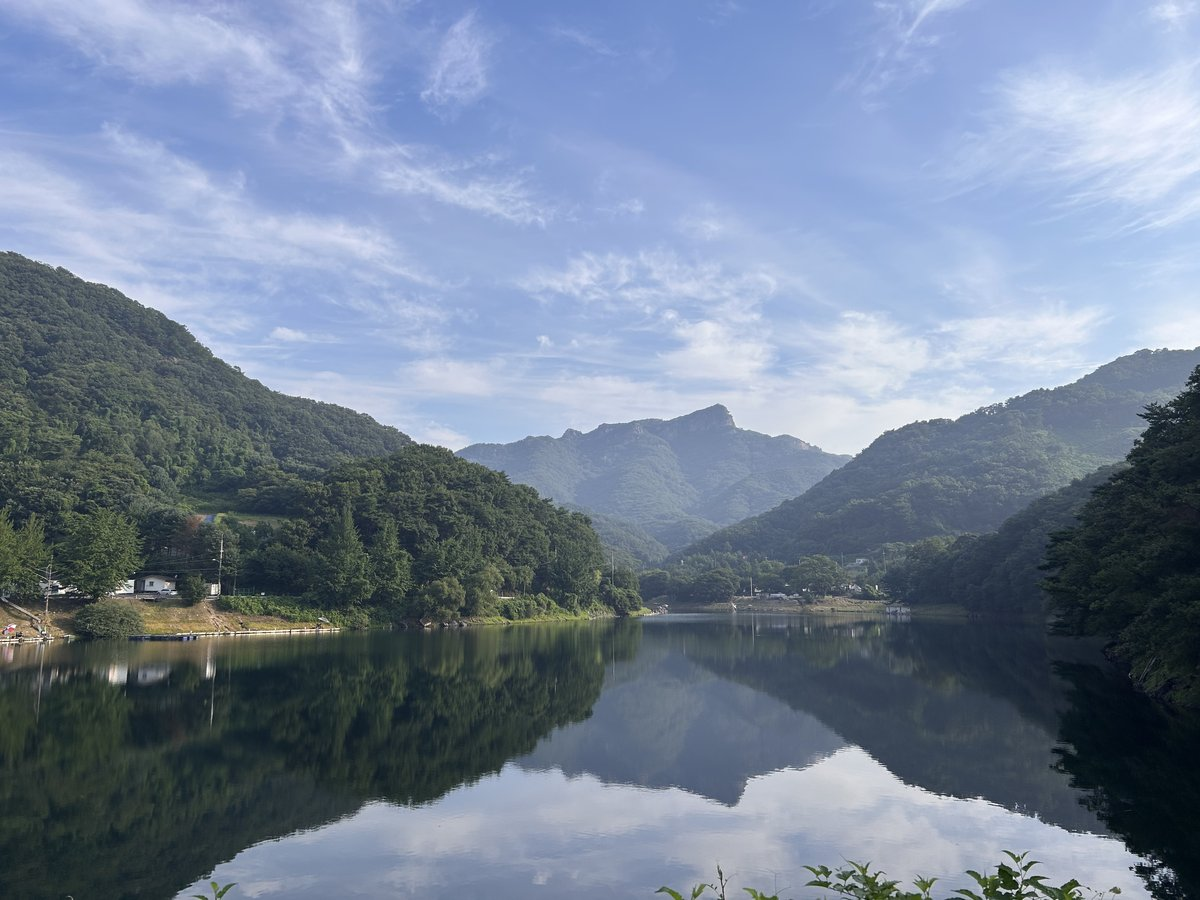
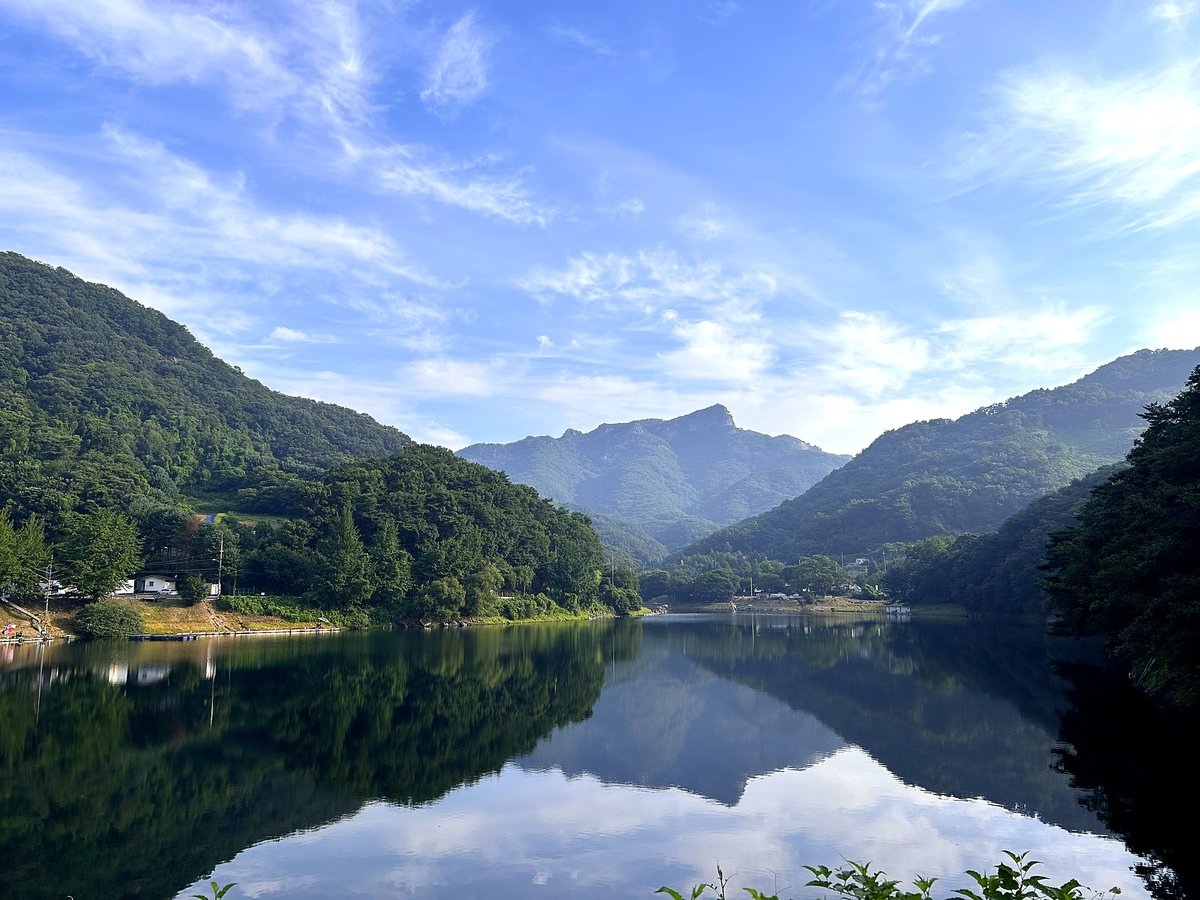
감악산(파주) 등반기록 추가 (2025-08-02 신암저수지 코스)
- 등산 코스에 신암저수지 코스, 주차장에 숲속야영장 주차장 추가
- 사진 8장 + GPS 경로, 얼굴은 스티커로 가림
- 대표 사진을 보정본으로 교체

Claude-Session: https://claude.ai/code/session_01U7tKXoXxPgekUzA57hnrcL

diff --git a/docs/mountain/감악산-파주.html b/docs/mountain/감악산-파주.html
@@ -13,7 +13,7 @@
 <meta property="og:site_name" content="블랙야크 100대 명산 기록">
 <meta property="og:locale" content="ko_KR">
 <meta property="og:url" content="https://jthird-ops.github.io/mountain/%EA%B0%90%EC%95%85%EC%82%B0-%ED%8C%8C%EC%A3%BC.html">
-<meta property="og:image" content="https://jthird-ops.github.io/assets/photos/%EA%B0%90%EC%95%85%EC%82%B0-%ED%8C%8C%EC%A3%BC.27439497.jpg">
+<meta property="og:image" content="https://jthird-ops.github.io/assets/photos/%EA%B0%90%EC%95%85%EC%82%B0-%ED%8C%8C%EC%A3%BC.0cee8f19.jpg">
 <meta name="twitter:card" content="summary_large_image">
 <link rel="canonical" href="https://jthird-ops.github.io/mountain/%EA%B0%90%EC%95%85%EC%82%B0-%ED%8C%8C%EC%A3%BC.html">
 <link rel="icon" href="../assets/favicon.ea8613df.png" type="image/png">
@@ -56,15 +56,15 @@
     <h1>감악산(파주)</h1>
     <p class="meta"><span class="badge">100대 명산 #7</span>
        <span>675m</span><span>경기</span>
-       <span class="upd">2026-09-06 기준</span></p>
+       <span class="upd">2026-10-02 기준</span></p>
     <p class="summary">675m. 산 초입의 출렁다리로 더 유명해진 파주의 산. 출렁다리만 왕복하면 2시간, 정상까지는 4~5시간입니다.</p>
   </div>
 
-  <figure class="cover"><img src="../assets/photos/감악산-파주.27439497.jpg" alt="감악산(파주) 사진" decoding="async"><figcaption>사진 직접 촬영 · 2025-08-02</figcaption></figure>
+  <figure class="cover"><img src="../assets/photos/감악산-파주.0cee8f19.jpg" alt="감악산(파주) 사진" decoding="async"><figcaption>사진 직접 촬영 · 2025-08-02</figcaption></figure>
 
   <div class="post-body">
     <div class="main"><div class="lede"><p>파주 감악산은 등산객보다 나들이객이 더 많이 찾는 산입니다. 들머리에서 1km 남짓 오르면 나오는 출렁다리 때문인데, 이 다리만 보고 돌아가는 사람도 적지 않습니다.</p><p>출렁다리와 범륜사를 왕복하는 코스가 4.2km, 2시간으로 가장 짧습니다. 다만 출렁다리를 건너 범륜사로 가는 시멘트 포장길이 생각보다 가파릅니다.</p><p>정상까지 제대로 오르려면 4~5시간을 잡아야 합니다. 여기서 중요한 건 출렁다리가 일몰에 닫힌다는 점입니다. 하산길에 다리가 통제되면 곤란해지니 일몰 5시간 전에는 출발해야 합니다.</p></div>
-    
+    <section class="blk"><h2>등반기록</h2><article class="lg"><header class="lg-head"><b class="lg-title">신암저수지에서 오른 감악산, 큰아들과 오랜만의 산행</b><p class="lg-sub">신암저수지 숲속야영장 주차장 → 신암저수지 → 누운폭포 → 칠성바위 → 악귀봉 → 장군봉 → 정상 → 얼굴바위 → 누운폭포 회귀</p><div class="lg-chips"><span class="lg-chip">2025.08.02</span><span class="lg-chip">신암저수지 숲속야영장 주차장 출발</span><span class="lg-chip">맑음</span></div></header><div class="lg-stats"><div class="lg-stat"><b>9.80km</b><span>이동 거리</span></div><div class="lg-stat"><b>5:03:40</b><span>총 소요시간</span></div><div class="lg-stat"><b>572m</b><span>고도 상승</span></div><div class="lg-stat"><b>17,163보</b><span>걸음 수</span></div><div class="lg-stat"><b>948kcal</b><span>소모 칼로리</span></div><div class="lg-stat"><b>30&#x27;57&quot;/km</b><span>평균 페이스</span></div></div><h3>신암저수지에 비친 감악산</h3><p>토요일 아침 7시 20분, 신암저수지 숲속야영장 주차장에서 출발했어요. 큰아들과 함께한 오랜만의 등산이었어요.</p><p>이 코스에서 가장 인상적이었던 건 시작하자마자 만나는 신암저수지예요. 저수지 너머로 감악산 정상이 보이는데, 잔잔한 물 위에 산이 그대로 비친 모습이 정말 끝내줘요.</p><figure class="lg-fig"><img src="../assets/photos/log/감악산-2025-08-02-1.4d450391.jpg" alt="신암저수지에 비친 감악산 정상" loading="lazy" decoding="async"><figcaption>신암저수지에 비친 감악산 정상</figcaption></figure><div class="lg-grid"><figure class="lg-cell"><img src="../assets/photos/log/감악산-2025-08-02-2.e17e0e91.jpg" alt="저수지 앞에서 출발 전 한 컷" loading="lazy" decoding="async"><figcaption>저수지 앞에서 출발 전 한 컷</figcaption></figure></div><h3>누운폭포, 칠성바위 지나 능선으로</h3><p>저수지를 지나 누운폭포와 칠성바위를 거쳐 능선에 올랐어요. 악귀봉과 장군봉을 차례로 넘어 정상으로 이어져요.</p><p>능선에는 양주시에서 만든 하늘길 데크가 잘 놓여 있어서 걷기 편했어요.</p><h3>감악산 정상, 675m</h3><p>9시 40분쯤 정상에 도착해서 정상석 앞에서 인증샷을 남겼어요.</p><figure class="lg-fig"><img src="../assets/photos/log/감악산-2025-08-02-3.f1c6f156.jpg" alt="감악산 정상석 앞에서" loading="lazy" decoding="async"><figcaption>감악산 정상석 앞에서</figcaption></figure><div class="lg-grid"><figure class="lg-cell"><img src="../assets/photos/log/감악산-2025-08-02-4.7f94135a.jpg" alt="가족이 함께 정상 인증" loading="lazy" decoding="async"><figcaption>가족이 함께 정상 인증</figcaption></figure></div><h3>얼굴바위 쪽으로 하산</h3><p>하산은 얼굴바위 방향으로 내려와 누운폭포에서 올라온 길과 다시 만났어요. 내려오는 길에도 소나무 사이로 시야가 탁 트여요. 총 9.8km, 5시간 3분이 걸렸어요.</p><figure class="lg-fig"><img src="../assets/photos/log/감악산-2025-08-02-5.3c01e812.jpg" alt="하산길에 바라본 풍경" loading="lazy" decoding="async"><figcaption>하산길에 바라본 풍경</figcaption></figure><div class="lg-grid"><figure class="lg-cell"><img src="../assets/photos/log/감악산-2025-08-02-6.1e905d0d.jpg" alt="감악산(파주) 산행 사진" loading="lazy" decoding="async"></figure><figure class="lg-cell"><img src="../assets/photos/log/감악산-2025-08-02-7.617bc642.jpg" alt="감악산(파주) 산행 사진" loading="lazy" decoding="async"></figure><figure class="lg-cell"><img src="../assets/photos/log/감악산-2025-08-02-8.06435ed7.jpg" alt="감악산(파주) 산행 사진" loading="lazy" decoding="async"></figure><figure class="lg-cell"><img src="../assets/photos/log/감악산-2025-08-02-route.06f19930.jpg" alt="GPS 경로 — 신암저수지 기점 회귀" loading="lazy" decoding="async"><figcaption>GPS 경로 — 신암저수지 기점 회귀</figcaption></figure></div><h3>다음에 갈 사람을 위한 팁</h3><ul class="tips"><li>많이 알려진 출렁다리 코스보다 개인적으로는 이 신암저수지 코스가 더 마음에 들었어요.</li><li>출발 전에 신암저수지에서 감악산 정상 쪽을 꼭 바라보세요. 물에 비친 모습은 바람 없는 아침이 가장 좋아요.</li><li>양주시에서 만든 하늘길 데크가 잘 되어 있어서 능선 구간을 편하게 걸을 수 있어요.</li></ul><div class="lg-verdict"><p>저수지에 비친 감악산 정상과 잘 정비된 하늘길 데크 덕분에 출렁다리 코스보다 더 마음에 든 코스예요. 큰아들과 오랜만에 함께 걸어서 더 좋았어요.</p></div></article></section>
     <section class="blk"><h2>이 산의 포인트</h2><ul class="hl"><li>감악산 출렁다리 — 들머리에서 1km 지점</li><li>출렁다리·범륜사 왕복 4.2km·2시간</li><li>출렁다리는 일몰에 폐쇄 — 하산 시각 주의</li><li>원주 감악산과 이름이 같은 별개의 산</li></ul></section>
     <section class="blk"><h2>등산 코스</h2><div class="table-scroll"><table class="courses">
       <thead><tr><th>코스</th><th>거리</th><th>소요</th><th>난이도</th></tr></thead>
@@ -76,13 +76,17 @@
         <td><b>정상 순환</b><br><span class="path">주차장 → 출렁다리 → 범륜사 → 능선 → 감악산 정상 → 하산</span></td>
         <td>약 7km</td><td>4~5시간</td>
         <td><span class="lv lv-중">중</span></td>
+      </tr><tr>
+        <td><b>신암저수지 코스 (양주 방면)</b><br><span class="path">신암저수지 숲속야영장 주차장 → 신암저수지 → 누운폭포 → 칠성바위 → 악귀봉 → 장군봉 → 정상 → 얼굴바위 → 누운폭포 → 원점</span></td>
+        <td>약 9.8km</td><td>5시간 내외(휴식 포함)</td>
+        <td><span class="lv lv-중">중</span></td>
       </tr></tbody></table></div></section>
     <section class="blk"><h2>인증장소</h2><p>감악산 정상 표지석 앞에서 인증합니다. 강원 원주의 감악산과는 다른 산이니 목록에서 지역을 확인하세요.</p></section>
     <section class="blk"><h2>가는 길</h2><dl class="access"><dt>자가용</dt><dd>감악산 출렁다리 주차장을 이용합니다. 주말에는 매우 붐빕니다.</dd><dt>대중교통</dt><dd>파주·의정부 방면에서 버스로 접근할 수 있습니다.</dd></dl></section>
-    <section class="blk"><h2>주차장</h2><ul class="pk-list"><li class="pk"><b class="pk-name">범륜사 주차장(감악산 제1주차장)</b><span class="pk-addr">경기 파주시 적성면 설마리</span><div class="pk-meta"><span class="pk-chip">약 150면</span><span class="pk-chip">무료</span></div><p class="pk-note">출렁다리와 등산로 입구가 붙어 있어 가장 붐빕니다. 주말 오전에는 아래 임시주차장으로 안내됩니다.</p><div class="pk-go"><a href="https://map.kakao.com/link/search/%EA%B0%90%EC%95%85%EC%82%B0%20%EB%B2%94%EB%A5%9C%EC%82%AC%20%EC%A3%BC%EC%B0%A8%EC%9E%A5%28%EA%B0%90%EC%95%85%EC%82%B0%20%EC%A0%9C1%EC%A3%BC%EC%B0%A8%EC%9E%A5%29" target="_blank" rel="noopener">카카오맵</a><a href="https://map.naver.com/p/search/%EA%B0%90%EC%95%85%EC%82%B0%20%EB%B2%94%EB%A5%9C%EC%82%AC%20%EC%A3%BC%EC%B0%A8%EC%9E%A5%28%EA%B0%90%EC%95%85%EC%82%B0%20%EC%A0%9C1%EC%A3%BC%EC%B0%A8%EC%9E%A5%29" target="_blank" rel="noopener">네이버지도</a></div></li><li class="pk"><b class="pk-name">운계전망대 아래 임시주차장</b><span class="pk-addr">경기 파주시 적성면 설마리</span><div class="pk-meta"><span class="pk-chip">무료</span></div><p class="pk-note">제1주차장이 찼을 때 쓰는 예비 공간입니다.</p><div class="pk-go"><a href="https://map.kakao.com/link/search/%EA%B0%90%EC%95%85%EC%82%B0%20%EC%9A%B4%EA%B3%84%EC%A0%84%EB%A7%9D%EB%8C%80%20%EC%95%84%EB%9E%98%20%EC%9E%84%EC%8B%9C%EC%A3%BC%EC%B0%A8%EC%9E%A5" target="_blank" rel="noopener">카카오맵</a><a href="https://map.naver.com/p/search/%EA%B0%90%EC%95%85%EC%82%B0%20%EC%9A%B4%EA%B3%84%EC%A0%84%EB%A7%9D%EB%8C%80%20%EC%95%84%EB%9E%98%20%EC%9E%84%EC%8B%9C%EC%A3%BC%EC%B0%A8%EC%9E%A5" target="_blank" rel="noopener">네이버지도</a></div></li></ul><p class="pk-warn">주차 요금과 면수는 자주 바뀌고 성수기에는 임시 주차장·셔틀이 운영되기도 합니다. 출발 전에 지도 앱이나 공원 사무소로 한 번 더 확인하세요.</p></section>
+    <section class="blk"><h2>주차장</h2><ul class="pk-list"><li class="pk"><b class="pk-name">범륜사 주차장(감악산 제1주차장)</b><span class="pk-addr">경기 파주시 적성면 설마리</span><div class="pk-meta"><span class="pk-chip">약 150면</span><span class="pk-chip">무료</span></div><p class="pk-note">출렁다리와 등산로 입구가 붙어 있어 가장 붐빕니다. 주말 오전에는 아래 임시주차장으로 안내됩니다.</p><div class="pk-go"><a href="https://map.kakao.com/link/search/%EA%B0%90%EC%95%85%EC%82%B0%20%EB%B2%94%EB%A5%9C%EC%82%AC%20%EC%A3%BC%EC%B0%A8%EC%9E%A5%28%EA%B0%90%EC%95%85%EC%82%B0%20%EC%A0%9C1%EC%A3%BC%EC%B0%A8%EC%9E%A5%29" target="_blank" rel="noopener">카카오맵</a><a href="https://map.naver.com/p/search/%EA%B0%90%EC%95%85%EC%82%B0%20%EB%B2%94%EB%A5%9C%EC%82%AC%20%EC%A3%BC%EC%B0%A8%EC%9E%A5%28%EA%B0%90%EC%95%85%EC%82%B0%20%EC%A0%9C1%EC%A3%BC%EC%B0%A8%EC%9E%A5%29" target="_blank" rel="noopener">네이버지도</a></div></li><li class="pk"><b class="pk-name">운계전망대 아래 임시주차장</b><span class="pk-addr">경기 파주시 적성면 설마리</span><div class="pk-meta"><span class="pk-chip">무료</span></div><p class="pk-note">제1주차장이 찼을 때 쓰는 예비 공간입니다.</p><div class="pk-go"><a href="https://map.kakao.com/link/search/%EA%B0%90%EC%95%85%EC%82%B0%20%EC%9A%B4%EA%B3%84%EC%A0%84%EB%A7%9D%EB%8C%80%20%EC%95%84%EB%9E%98%20%EC%9E%84%EC%8B%9C%EC%A3%BC%EC%B0%A8%EC%9E%A5" target="_blank" rel="noopener">카카오맵</a><a href="https://map.naver.com/p/search/%EA%B0%90%EC%95%85%EC%82%B0%20%EC%9A%B4%EA%B3%84%EC%A0%84%EB%A7%9D%EB%8C%80%20%EC%95%84%EB%9E%98%20%EC%9E%84%EC%8B%9C%EC%A3%BC%EC%B0%A8%EC%9E%A5" target="_blank" rel="noopener">네이버지도</a></div></li><li class="pk"><b class="pk-name">신암저수지 숲속야영장 주차장</b><span class="pk-addr">경기 양주시 남면 신암리</span><p class="pk-note">양주 방면 신암저수지 코스의 들머리입니다. 출렁다리 쪽보다 한적합니다.</p><div class="pk-go"><a href="https://map.kakao.com/link/search/%EA%B0%90%EC%95%85%EC%82%B0%20%EC%8B%A0%EC%95%94%EC%A0%80%EC%88%98%EC%A7%80%20%EC%88%B2%EC%86%8D%EC%95%BC%EC%98%81%EC%9E%A5%20%EC%A3%BC%EC%B0%A8%EC%9E%A5" target="_blank" rel="noopener">카카오맵</a><a href="https://map.naver.com/p/search/%EA%B0%90%EC%95%85%EC%82%B0%20%EC%8B%A0%EC%95%94%EC%A0%80%EC%88%98%EC%A7%80%20%EC%88%B2%EC%86%8D%EC%95%BC%EC%98%81%EC%9E%A5%20%EC%A3%BC%EC%B0%A8%EC%9E%A5" target="_blank" rel="noopener">네이버지도</a></div></li></ul><p class="pk-warn">주차 요금과 면수는 자주 바뀌고 성수기에는 임시 주차장·셔틀이 운영되기도 합니다. 출발 전에 지도 앱이나 공원 사무소로 한 번 더 확인하세요.</p></section>
     <section class="blk"><h2>맛집</h2><p class="fd-local">파주 적성은 두부와 장단콩의 고장입니다. 임진강 가에서는 매운탕과 참게장을, 마을 쪽에서는 두부전골과 제육쌈밥을 냅니다.</p><ul class="fd-list"><li class="fd"><b class="fd-name">가월리손두부</b><span class="fd-dist">들머리에서 3.5km</span><span class="fd-addr">경기도 파주시 적성면 감악산로 1473</span><div class="fd-meta"><span class="fd-chip">두부전골</span><span class="fd-chip">10:30~18:00 / 마지막 주문 17:30</span><span class="fd-chip">매주 월요일</span></div><div class="fd-go"><a href="https://map.kakao.com/link/search/%EA%B0%80%EC%9B%94%EB%A6%AC%EC%86%90%EB%91%90%EB%B6%80%20%EA%B2%BD%EA%B8%B0%EB%8F%84" target="_blank" rel="noopener">카카오맵</a><a href="https://map.naver.com/p/search/%EA%B0%80%EC%9B%94%EB%A6%AC%EC%86%90%EB%91%90%EB%B6%80%20%EA%B2%BD%EA%B8%B0%EB%8F%84" target="_blank" rel="noopener">네이버지도</a></div></li><li class="fd"><b class="fd-name">미식 쌈밥</b><span class="fd-dist">들머리에서 10.1km</span><span class="fd-addr">경기도 동두천시 신천로231번길 35-11 (안흥동)</span><div class="fd-meta"><span class="fd-chip">제육쌈밥정식</span><span class="fd-chip">[평일] / 11:00~19:20 / 준비시간 15:00~17:00 / 마지막 주문 14:5</span><span class="fd-chip">매주 월요일</span></div><div class="fd-go"><a href="https://map.kakao.com/link/search/%EB%AF%B8%EC%8B%9D%20%EC%8C%88%EB%B0%A5%20%EA%B2%BD%EA%B8%B0%EB%8F%84" target="_blank" rel="noopener">카카오맵</a><a href="https://map.naver.com/p/search/%EB%AF%B8%EC%8B%9D%20%EC%8C%88%EB%B0%A5%20%EA%B2%BD%EA%B8%B0%EB%8F%84" target="_blank" rel="noopener">네이버지도</a></div></li><li class="fd"><b class="fd-name">두포나루터</b><span class="fd-dist">들머리에서 10.7km</span><span class="fd-addr">경기도 파주시 율곡로 829 두포나루터</span><div class="fd-meta"><span class="fd-chip">두포나루터 스페셜</span><span class="fd-chip">11:00~21:00 (마지막 주문 20:00)</span><span class="fd-chip">매주 화요일</span></div><div class="fd-go"><a href="https://map.kakao.com/link/search/%EB%91%90%ED%8F%AC%EB%82%98%EB%A3%A8%ED%84%B0%20%EA%B2%BD%EA%B8%B0%EB%8F%84" target="_blank" rel="noopener">카카오맵</a><a href="https://map.naver.com/p/search/%EB%91%90%ED%8F%AC%EB%82%98%EB%A3%A8%ED%84%B0%20%EA%B2%BD%EA%B8%B0%EB%8F%84" target="_blank" rel="noopener">네이버지도</a></div></li><li class="fd"><b class="fd-name">대교설렁탕</b><span class="fd-dist">들머리에서 4.8km</span><span class="fd-addr">경기도 연천군 백학면 청정로46번길 24</span><div class="fd-meta"><span class="fd-chip">설렁탕</span><span class="fd-chip">05:00~14:30 / 마지막 주문 14:00</span><span class="fd-chip">연중무휴</span></div><div class="fd-go"><a href="https://map.kakao.com/link/search/%EB%8C%80%EA%B5%90%EC%84%A4%EB%A0%81%ED%83%95%20%EA%B2%BD%EA%B8%B0%EB%8F%84" target="_blank" rel="noopener">카카오맵</a><a href="https://map.naver.com/p/search/%EB%8C%80%EA%B5%90%EC%84%A4%EB%A0%81%ED%83%95%20%EA%B2%BD%EA%B8%B0%EB%8F%84" target="_blank" rel="noopener">네이버지도</a></div></li><li class="fd"><b class="fd-name">두포리매운탕</b><span class="fd-dist">들머리에서 10.6km</span><span class="fd-addr">경기도 파주시 파평면 율곡로 833</span><div class="fd-meta"><span class="fd-chip">특 매운탕</span><span class="fd-chip">[평일] / 11:00~21:00 / 마지막 주문 20:00 / [주말] / 11:00~2</span><span class="fd-chip">매주 월요일 (단, 월요일이 공휴일인 경우 정상 영업)</span></div><div class="fd-go"><a href="https://map.kakao.com/link/search/%EB%91%90%ED%8F%AC%EB%A6%AC%EB%A7%A4%EC%9A%B4%ED%83%95%20%EA%B2%BD%EA%B8%B0%EB%8F%84" target="_blank" rel="noopener">카카오맵</a><a href="https://map.naver.com/p/search/%EB%91%90%ED%8F%AC%EB%A6%AC%EB%A7%A4%EC%9A%B4%ED%83%95%20%EA%B2%BD%EA%B8%B0%EB%8F%84" target="_blank" rel="noopener">네이버지도</a></div></li></ul><p class="fd-warn">한국관광공사에 등록된 음식점입니다. 맛집 순위가 아니며, 영업시간과 휴무일은 바뀔 수 있으니 먼 길이라면 미리 전화해 보세요.</p></section>
     <section class="blk"><h2>언제 가면 좋은가</h2><p>봄가을이 좋습니다. 출렁다리 일대는 주말마다 붐비니 이른 시간에 도착하는 편이 좋습니다.</p></section>
-    <section class="blk"><h2>알아두면 좋은 것</h2><ul class="tips"><li>출렁다리가 일몰에 닫히므로 정상까지 갈 계획이면 일몰 5시간 전에 출발하세요.</li><li>출렁다리~범륜사 포장길이 가팔라 초반에 힘을 뺄 수 있습니다.</li><li>나들이 인파와 등산객이 섞여 초입 구간이 특히 혼잡합니다.</li></ul></section>
+    <section class="blk"><h2>알아두면 좋은 것</h2><ul class="tips"><li>출렁다리가 일몰에 닫히므로 정상까지 갈 계획이면 일몰 5시간 전에 출발하세요.</li><li>출렁다리~범륜사 포장길이 가팔라 초반에 힘을 뺄 수 있습니다.</li><li>나들이 인파와 등산객이 섞여 초입 구간이 특히 혼잡합니다.</li><li>출렁다리 쪽이 붐비는 날에는 양주 방면 신암저수지 코스가 대안입니다. 저수지에 비친 감악산 정상이 보이고, 능선에는 하늘길 데크가 놓여 있습니다.</li></ul></section>
     <section class="blk"><h2>참고한 곳</h2><ul class="sources"><li><a href="https://tour.paju.go.kr/user/tour/place/BD_tourPlaceInfoView.do?menuCode=4&amp;areaSe=&amp;cntntsSn=2061" target="_blank" rel="noopener">파주시 문화관광포털 — 감악산 출렁다리</a></li><li><a href="https://koreahike.com/파주-감악산-등산코스/" target="_blank" rel="noopener">KoreaHike — 파주 감악산 등산코스</a></li></ul></section></div>
     <aside class="side">
       <div class="minimap">

diff --git a/docs/index.html b/docs/index.html
@@ -111,7 +111,7 @@ read();
 <section class="statbar">
   <div class="stats">
     <div><b>100</b><span>대상 산</span></div>
-    <div><b>256</b><span>등산 코스</span></div>
+    <div><b>257</b><span>등산 코스</span></div>
     <div><b>12</b><span>지역</span></div>
     <div><b>1950m</b><span>최고 · 한라산</span></div>
   </div>
@@ -215,7 +215,7 @@ read();
       </a>
       <a class="card" href="mountain/감악산-파주.html"
          data-region="경기" data-name="감악산(파주)">
-        <span class="card-thumb"><img src="assets/photos/감악산-파주-t.eeb56aa9.jpg" alt="감악산(파주) 사진" loading="lazy" decoding="async"></span>
+        <span class="card-thumb"><img src="assets/photos/감악산-파주-t.d35d3e26.jpg" alt="감악산(파주) 사진" loading="lazy" decoding="async"><span class="done-badge">✓ 완등 25.08.02</span></span>
         <span class="card-body">
           <span class="card-top"><i class="rank">7</i><i class="tag">경기</i></span>
           <strong>감악산(파주)</strong>
